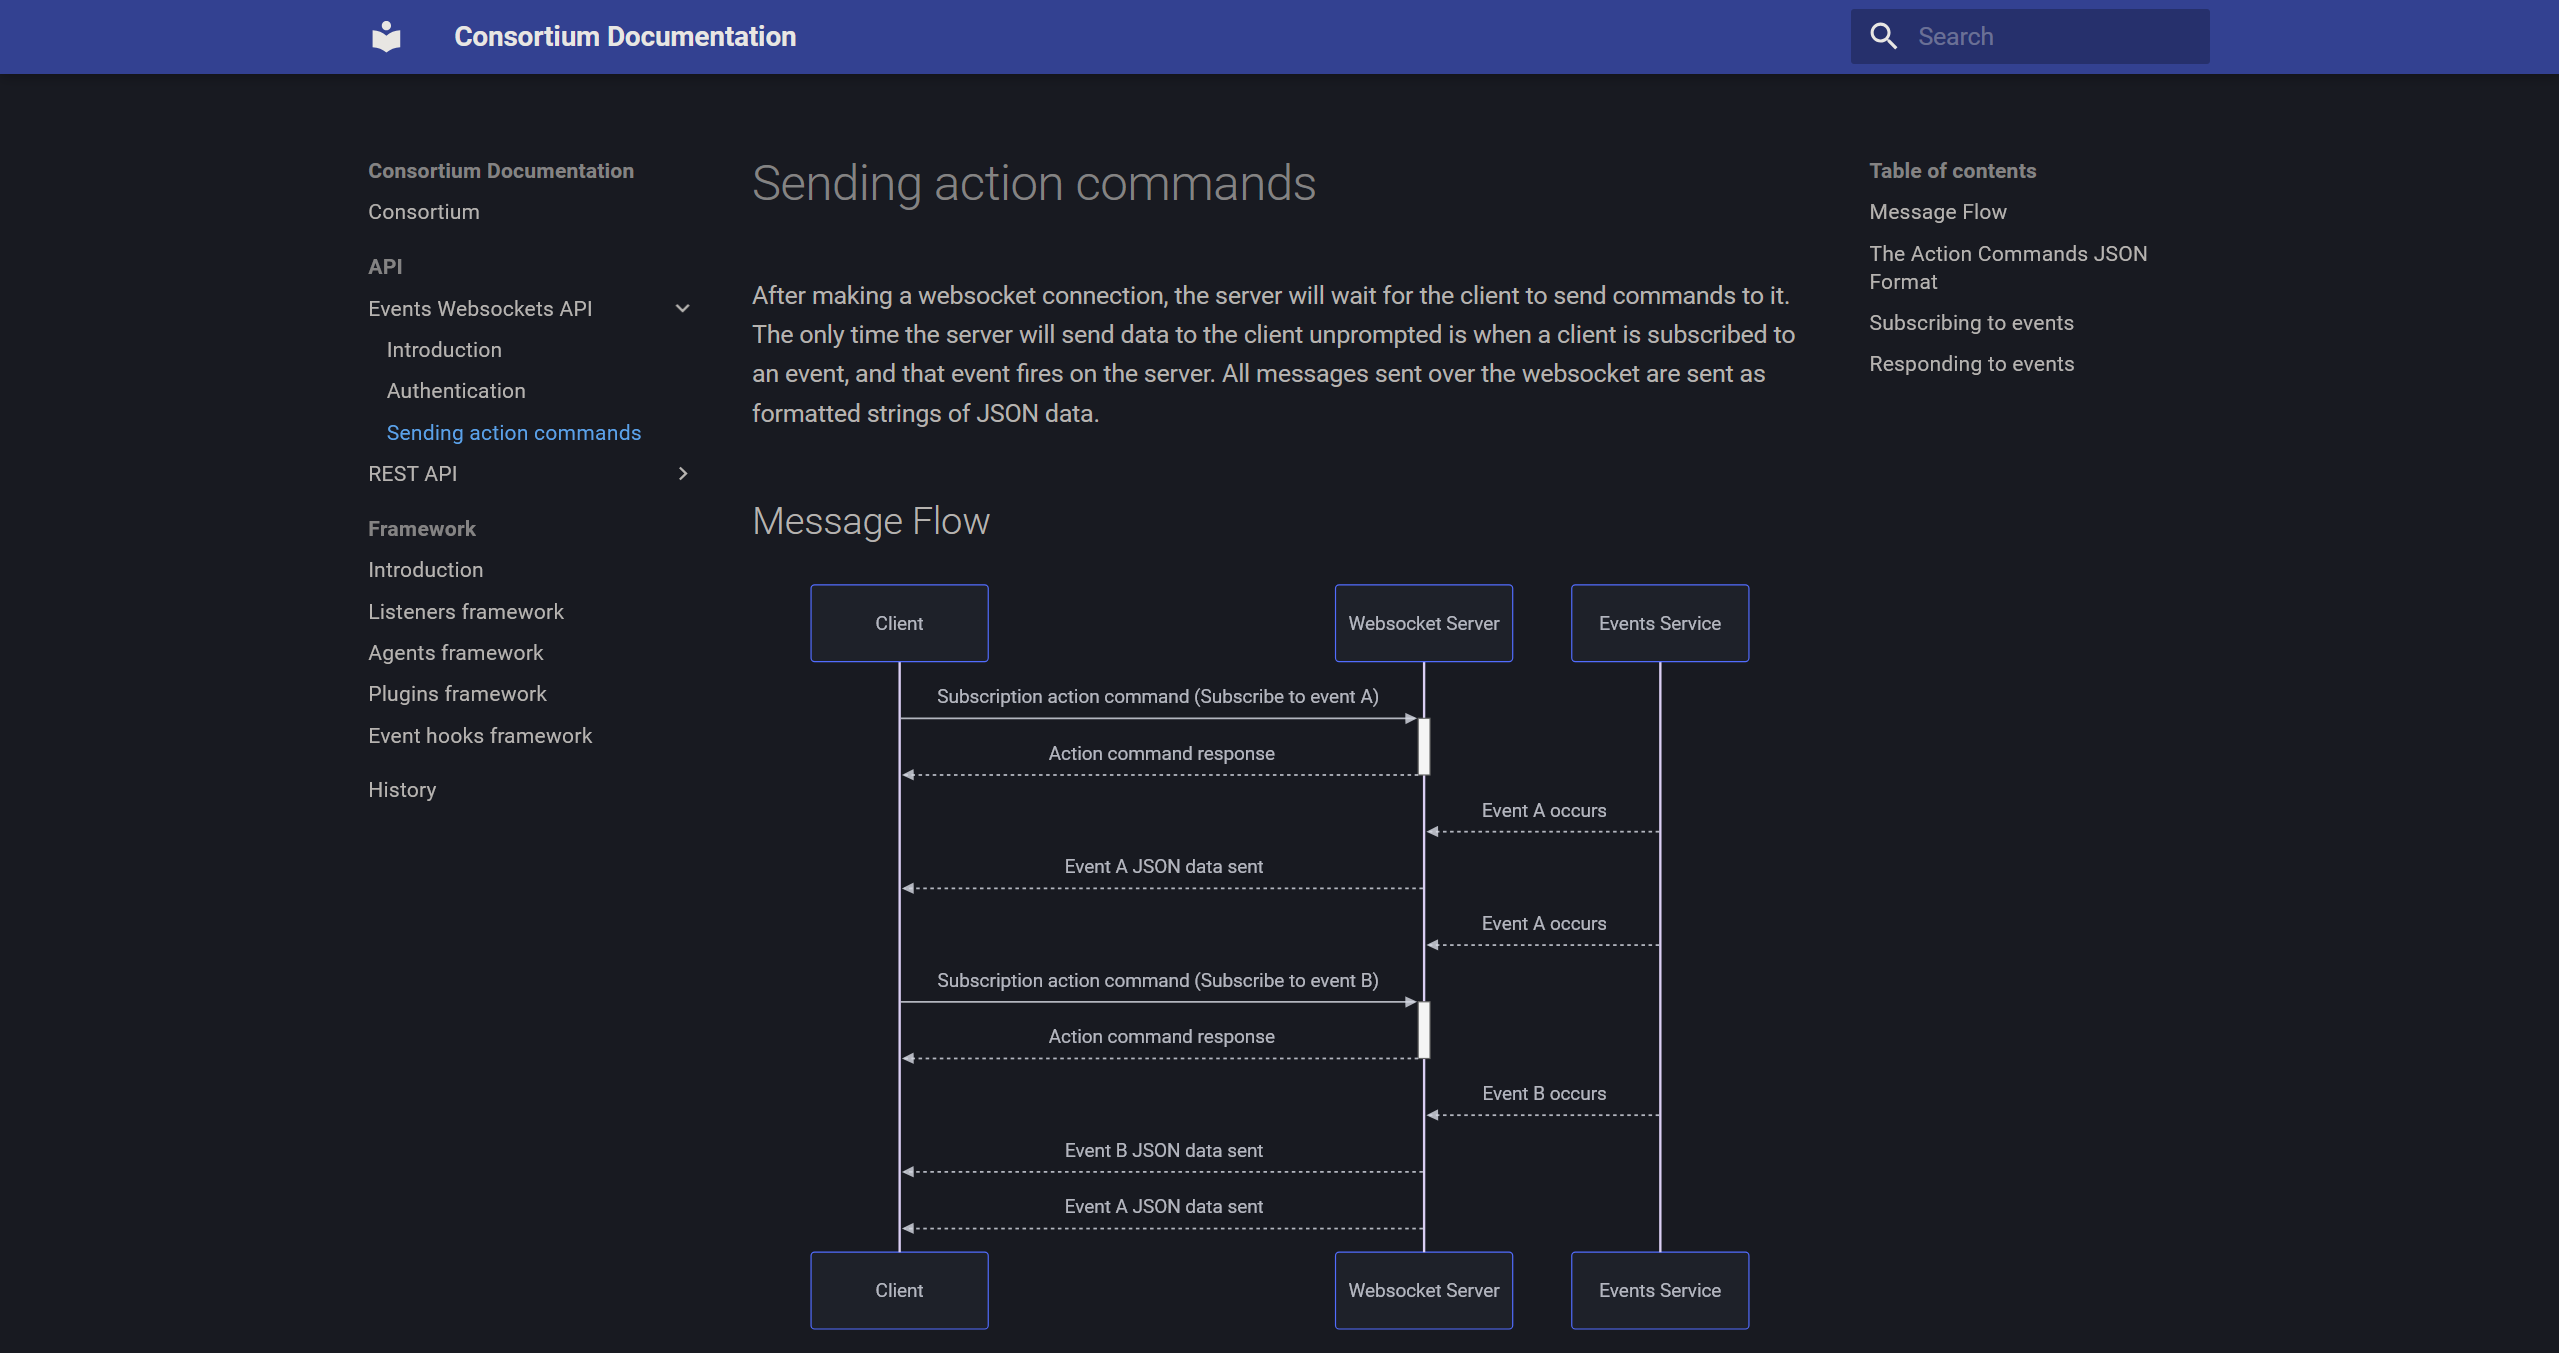
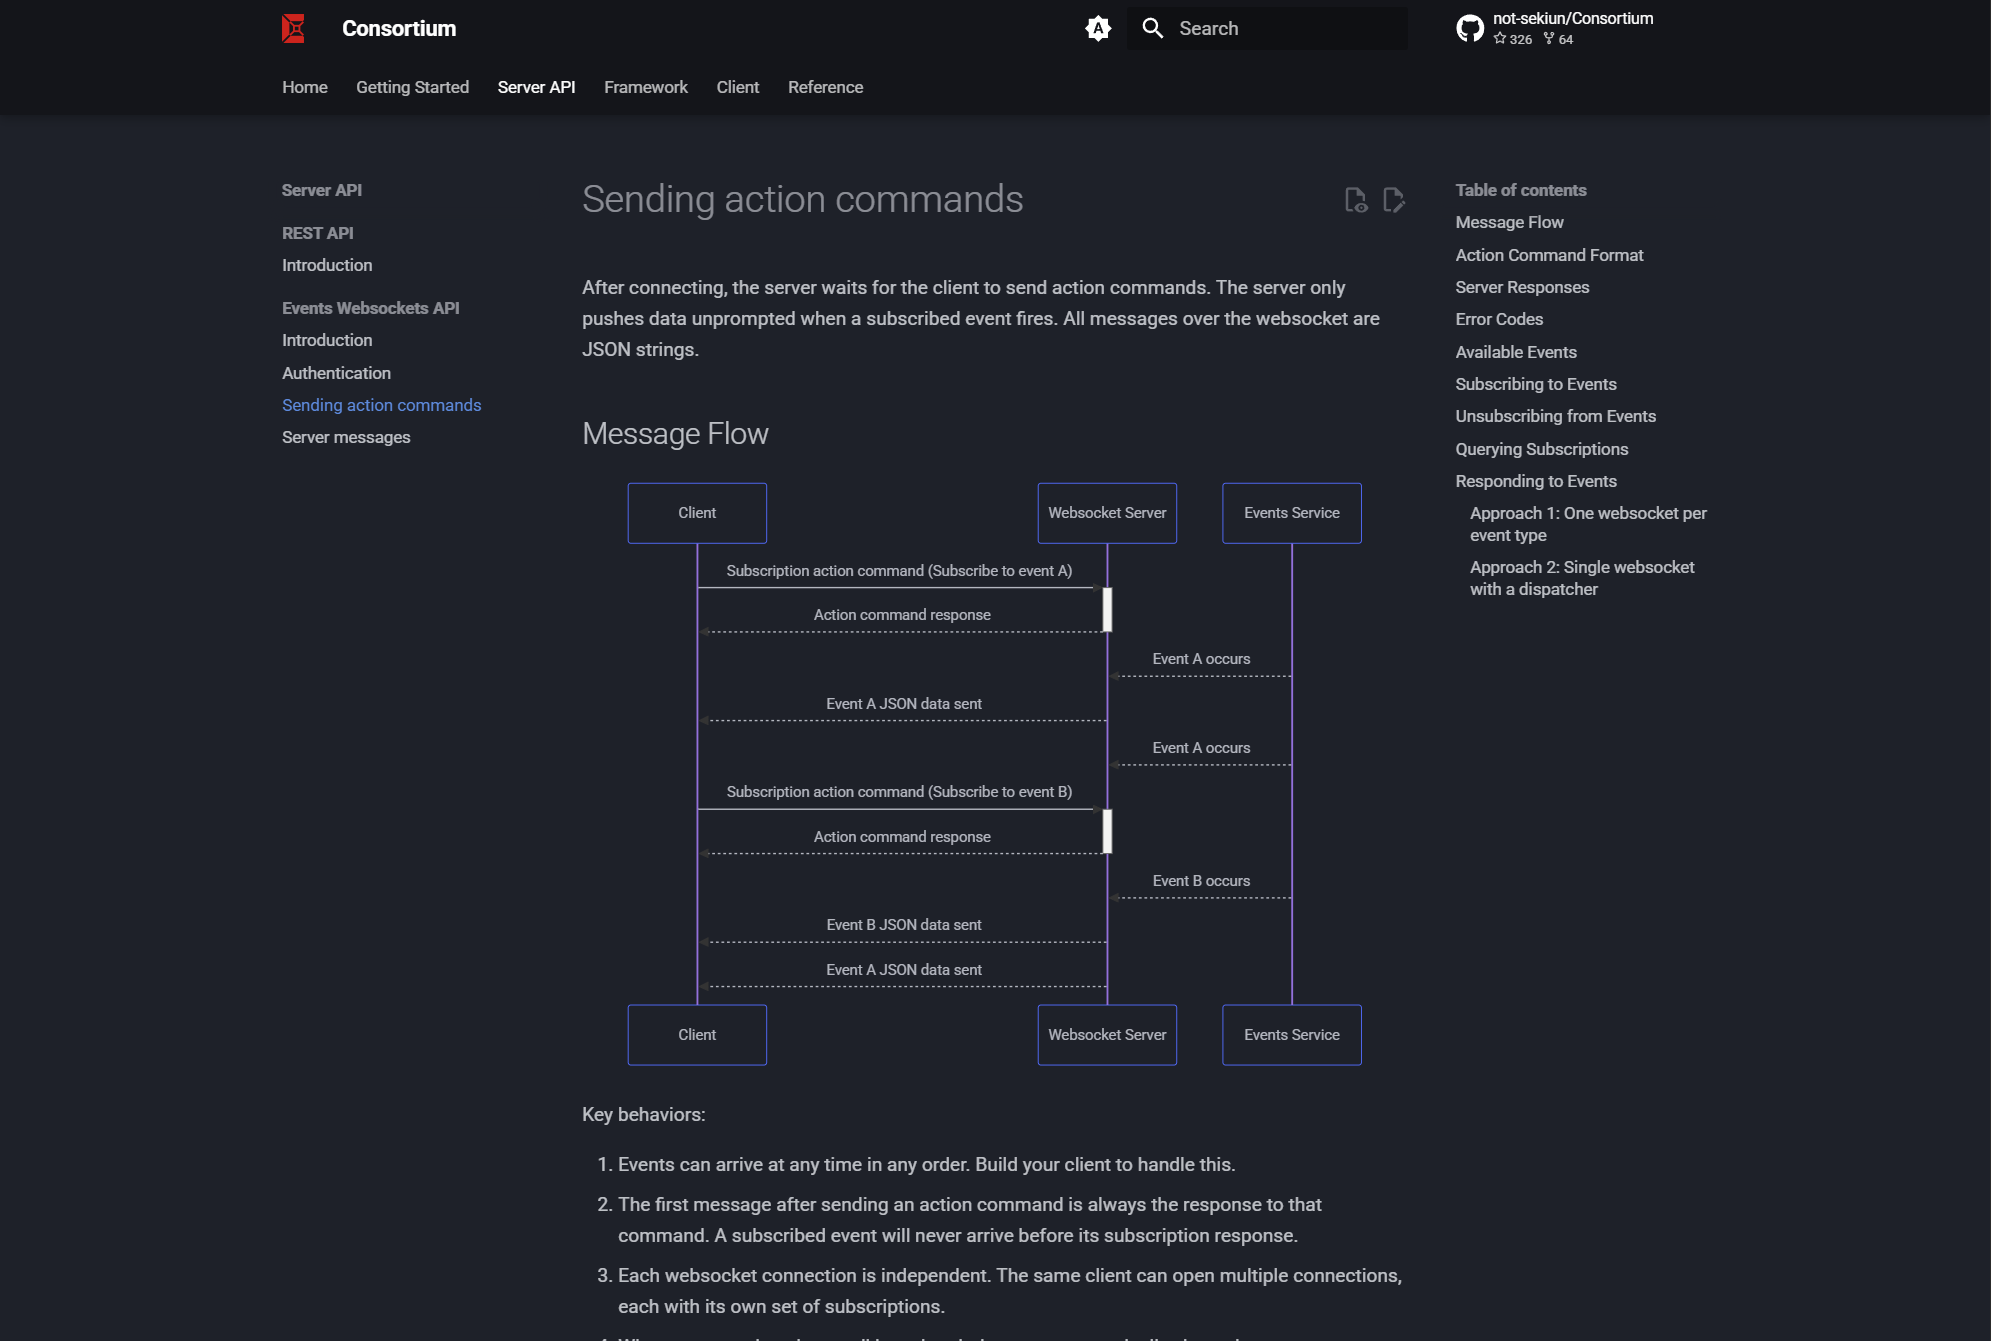
document the new framework modules

diff --git a/docs/client/agents/managing-artifacts.md b/docs/client/agents/managing-artifacts.md
@@ -1,0 +1,57 @@
+# Managing Artifacts
+
+**Artifacts** are files produced by agents during operations and stored on the server,
+for example files an agent collects from a target or output it generates while running a
+capability. Unlike [assets](managing-assets.md), artifacts are not uploaded from the
+client: they are created by agents, so there is no upload command, only commands to list,
+inspect, download, and remove them. Artifact commands are available in both the
+[Agents interpreter](tasking-agents.md) and the Interact Agent interpreter.
+
+## Artifact commands
+
+| Command                 | Description                              |
+|-------------------------|------------------------------------------|
+| `ar-list`               | List all artifacts                       |
+| `ar-info <resource_id>` | Show details of an artifact              |
+| `ar-dl <resource_id>`   | Download an artifact by its resource ID  |
+| `ar-rm <resource_id>`   | Remove an artifact                       |
+
+Artifact resource IDs tab complete.
+
+## Inspecting an artifact
+
+`ar-info <resource_id>` shows an artifact's details, including the agent that produced
+it. Pass `-v` (or `--verbose`) to additionally display detailed information about that
+agent:
+
+```text
+ar-info 123e4567-e89b-12d3-a456-42661417400       # show artifact details
+ar-info 123e4567-e89b-12d3-a456-42661417400 -v    # also show producing agent details
+```
+
+The producing agent recorded on an artifact is a point-in-time reference. If that agent
+has since been deleted the artifact and its details remain available, but the verbose
+agent view can no longer be shown.
+
+## Downloading an artifact
+
+`ar-dl <resource_id>` downloads an artifact from the server to the client machine. Use
+`ar-list` to find the resource ID and `ar-info <resource_id>` to inspect an artifact
+before downloading it:
+
+```text
+ar-dl 123e4567-e89b-12d3-a456-42661417400                    # download to the current directory
+ar-dl 123e4567-e89b-12d3-a456-42661417400 -o ./loot/out.bin  # download to a specific path
+ar-dl 123e4567-e89b-12d3-a456-42661417400 -d                 # decompress a downloaded artifact directory
+```
+
+By default an artifact directory is downloaded as a `.zip` archive. Pass `-d` (or
+`--decompress`) to automatically extract artifact directories after downloading.
+
+## Removing an artifact
+
+`ar-rm <resource_id>` deletes an artifact from the server.
+
+Artifacts are the counterpart to assets in the agent workflow: task an agent with a
+capability, then use these commands to retrieve and manage the files it produces. See
+[Tasking Agents](tasking-agents.md).

diff --git a/docs/client/agents/tasking-agents.md b/docs/client/agents/tasking-agents.md
@@ -6,10 +6,9 @@ its listener and checks in. From that point you manage and task it from the clie
 interpreters are involved:
 
 - The **Agents** interpreter (prompt `Consortium (Agents)`) lists all agents, inspects
-  their tasks, and manages assets.
+  their tasks, and manages assets and artifacts.
 - The **Interact Agent** interpreter (prompt `Consortium (Agents: <name>)`) scopes you
-  to a
-  single agent so you can task it through its capabilities.
+  to a single agent so you can task it through its capabilities.
 
 Switch into the Agents interpreter from any connected interpreter with the `agents`
 command.
